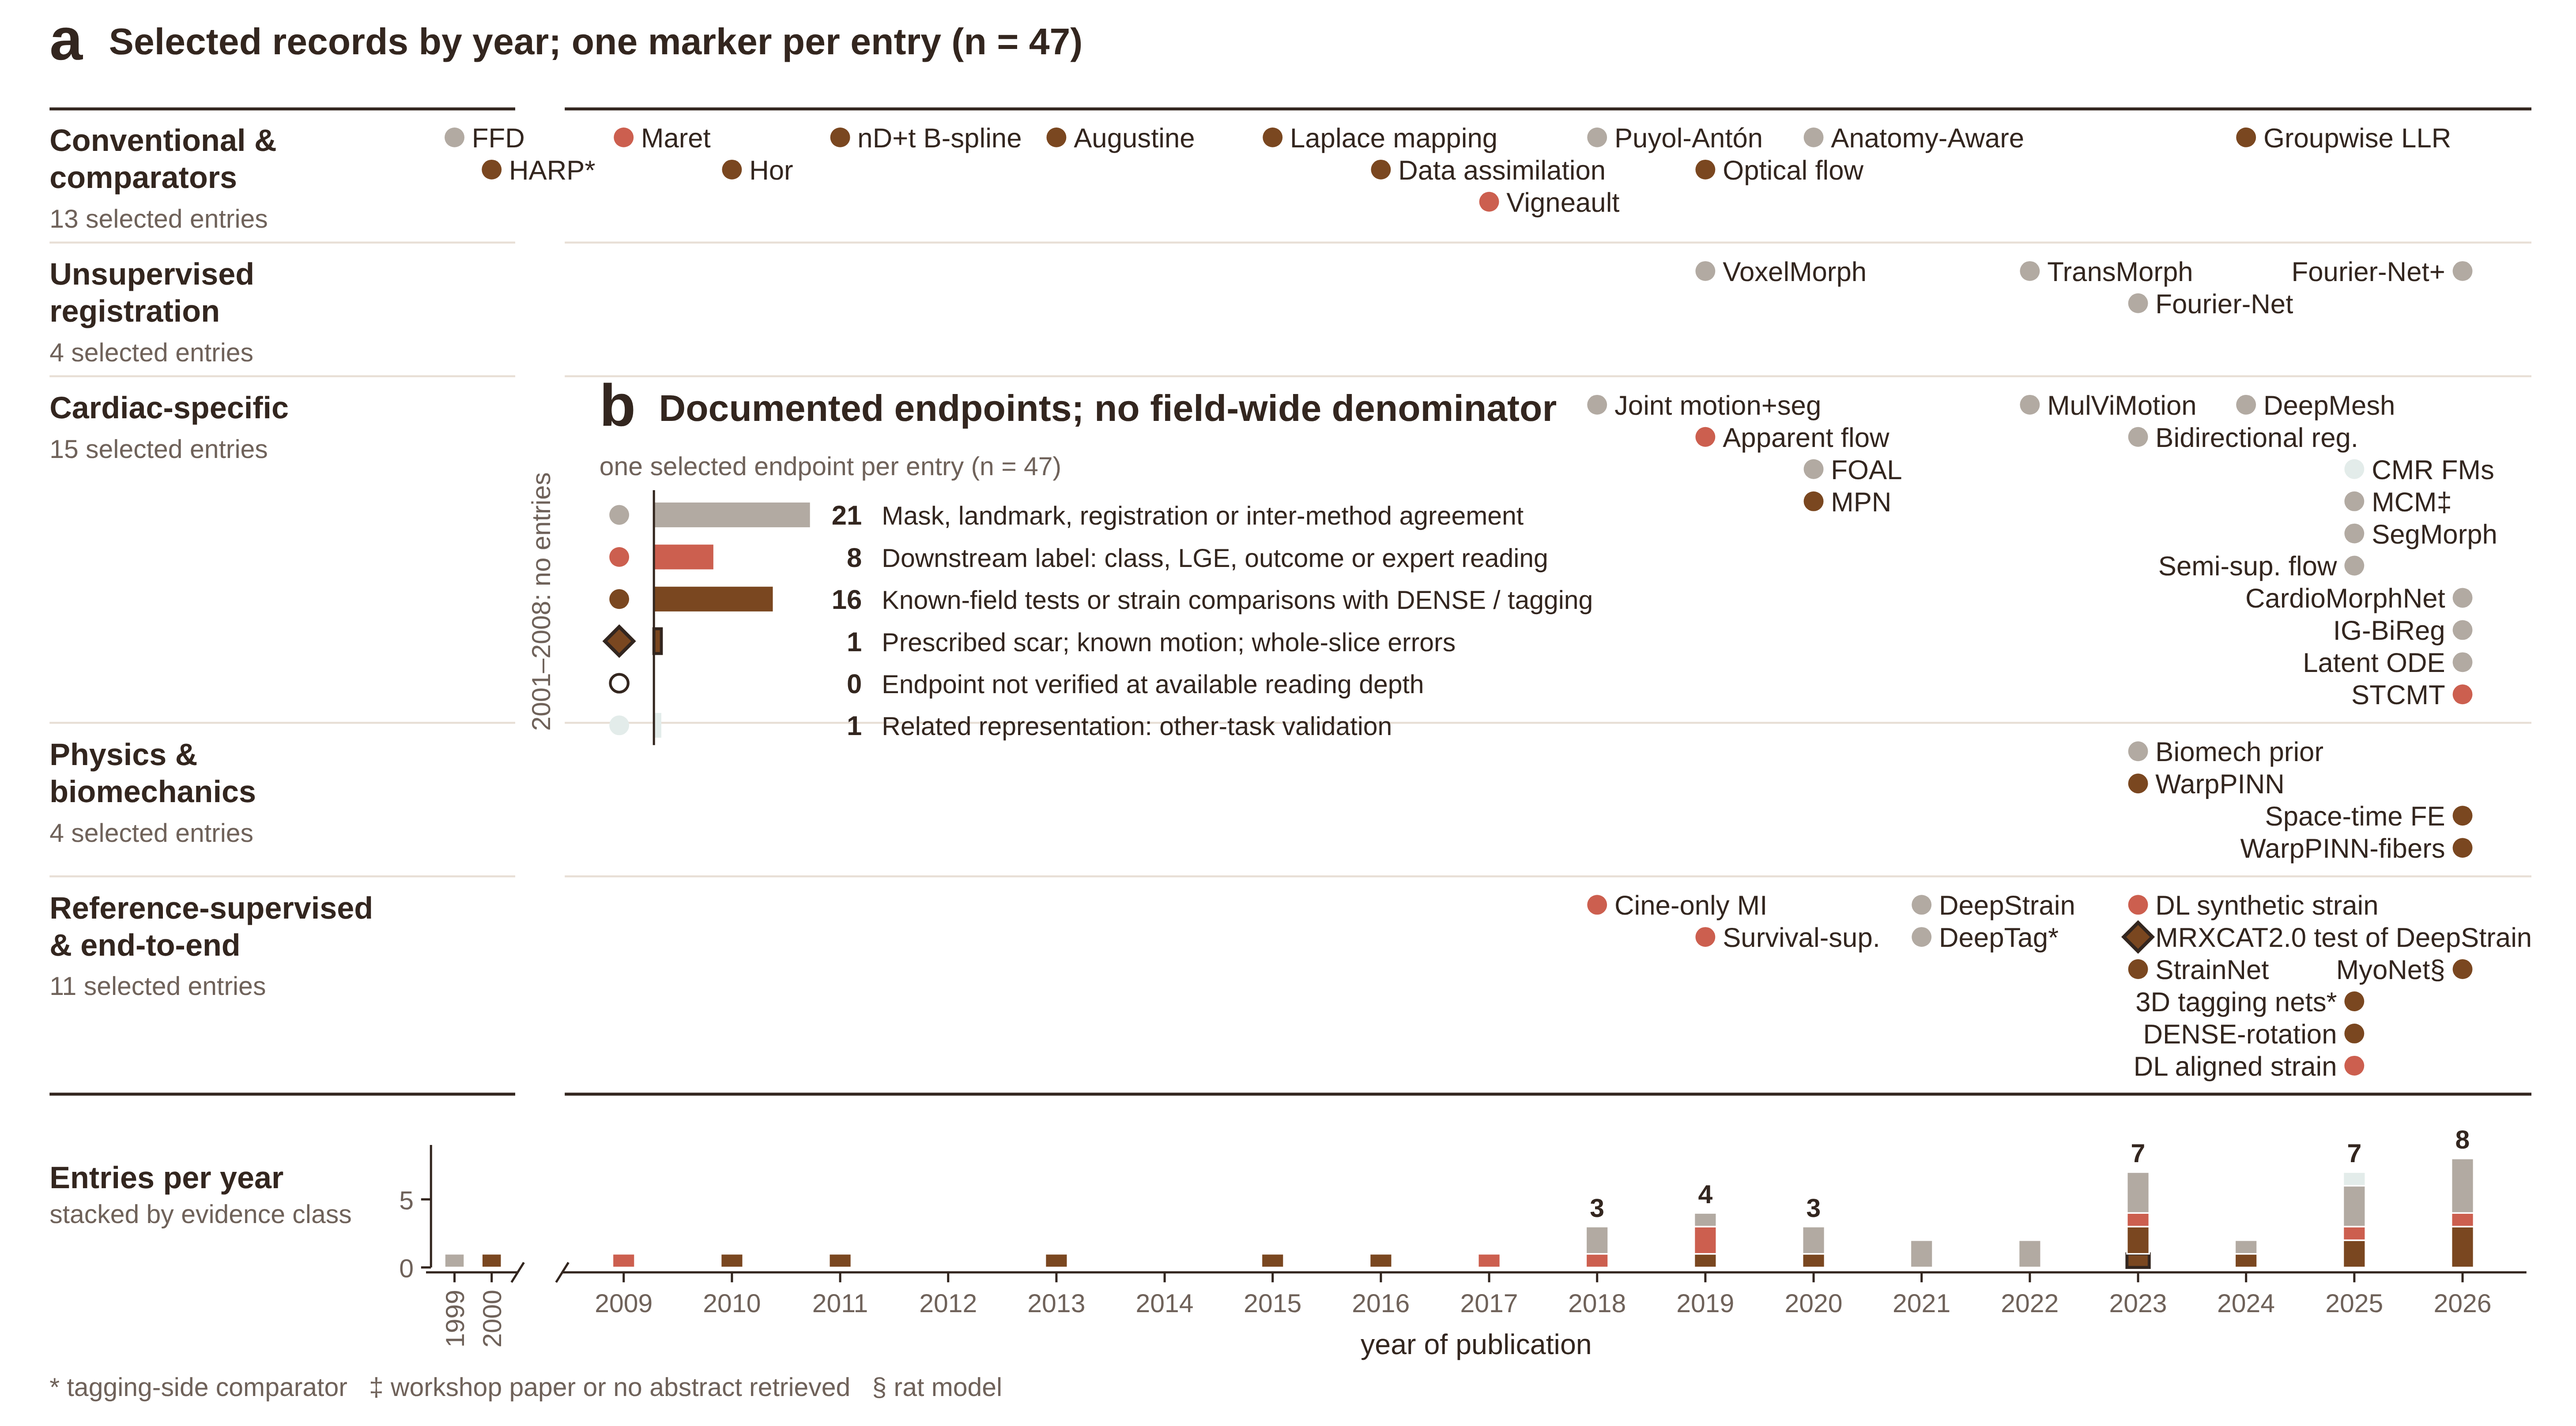
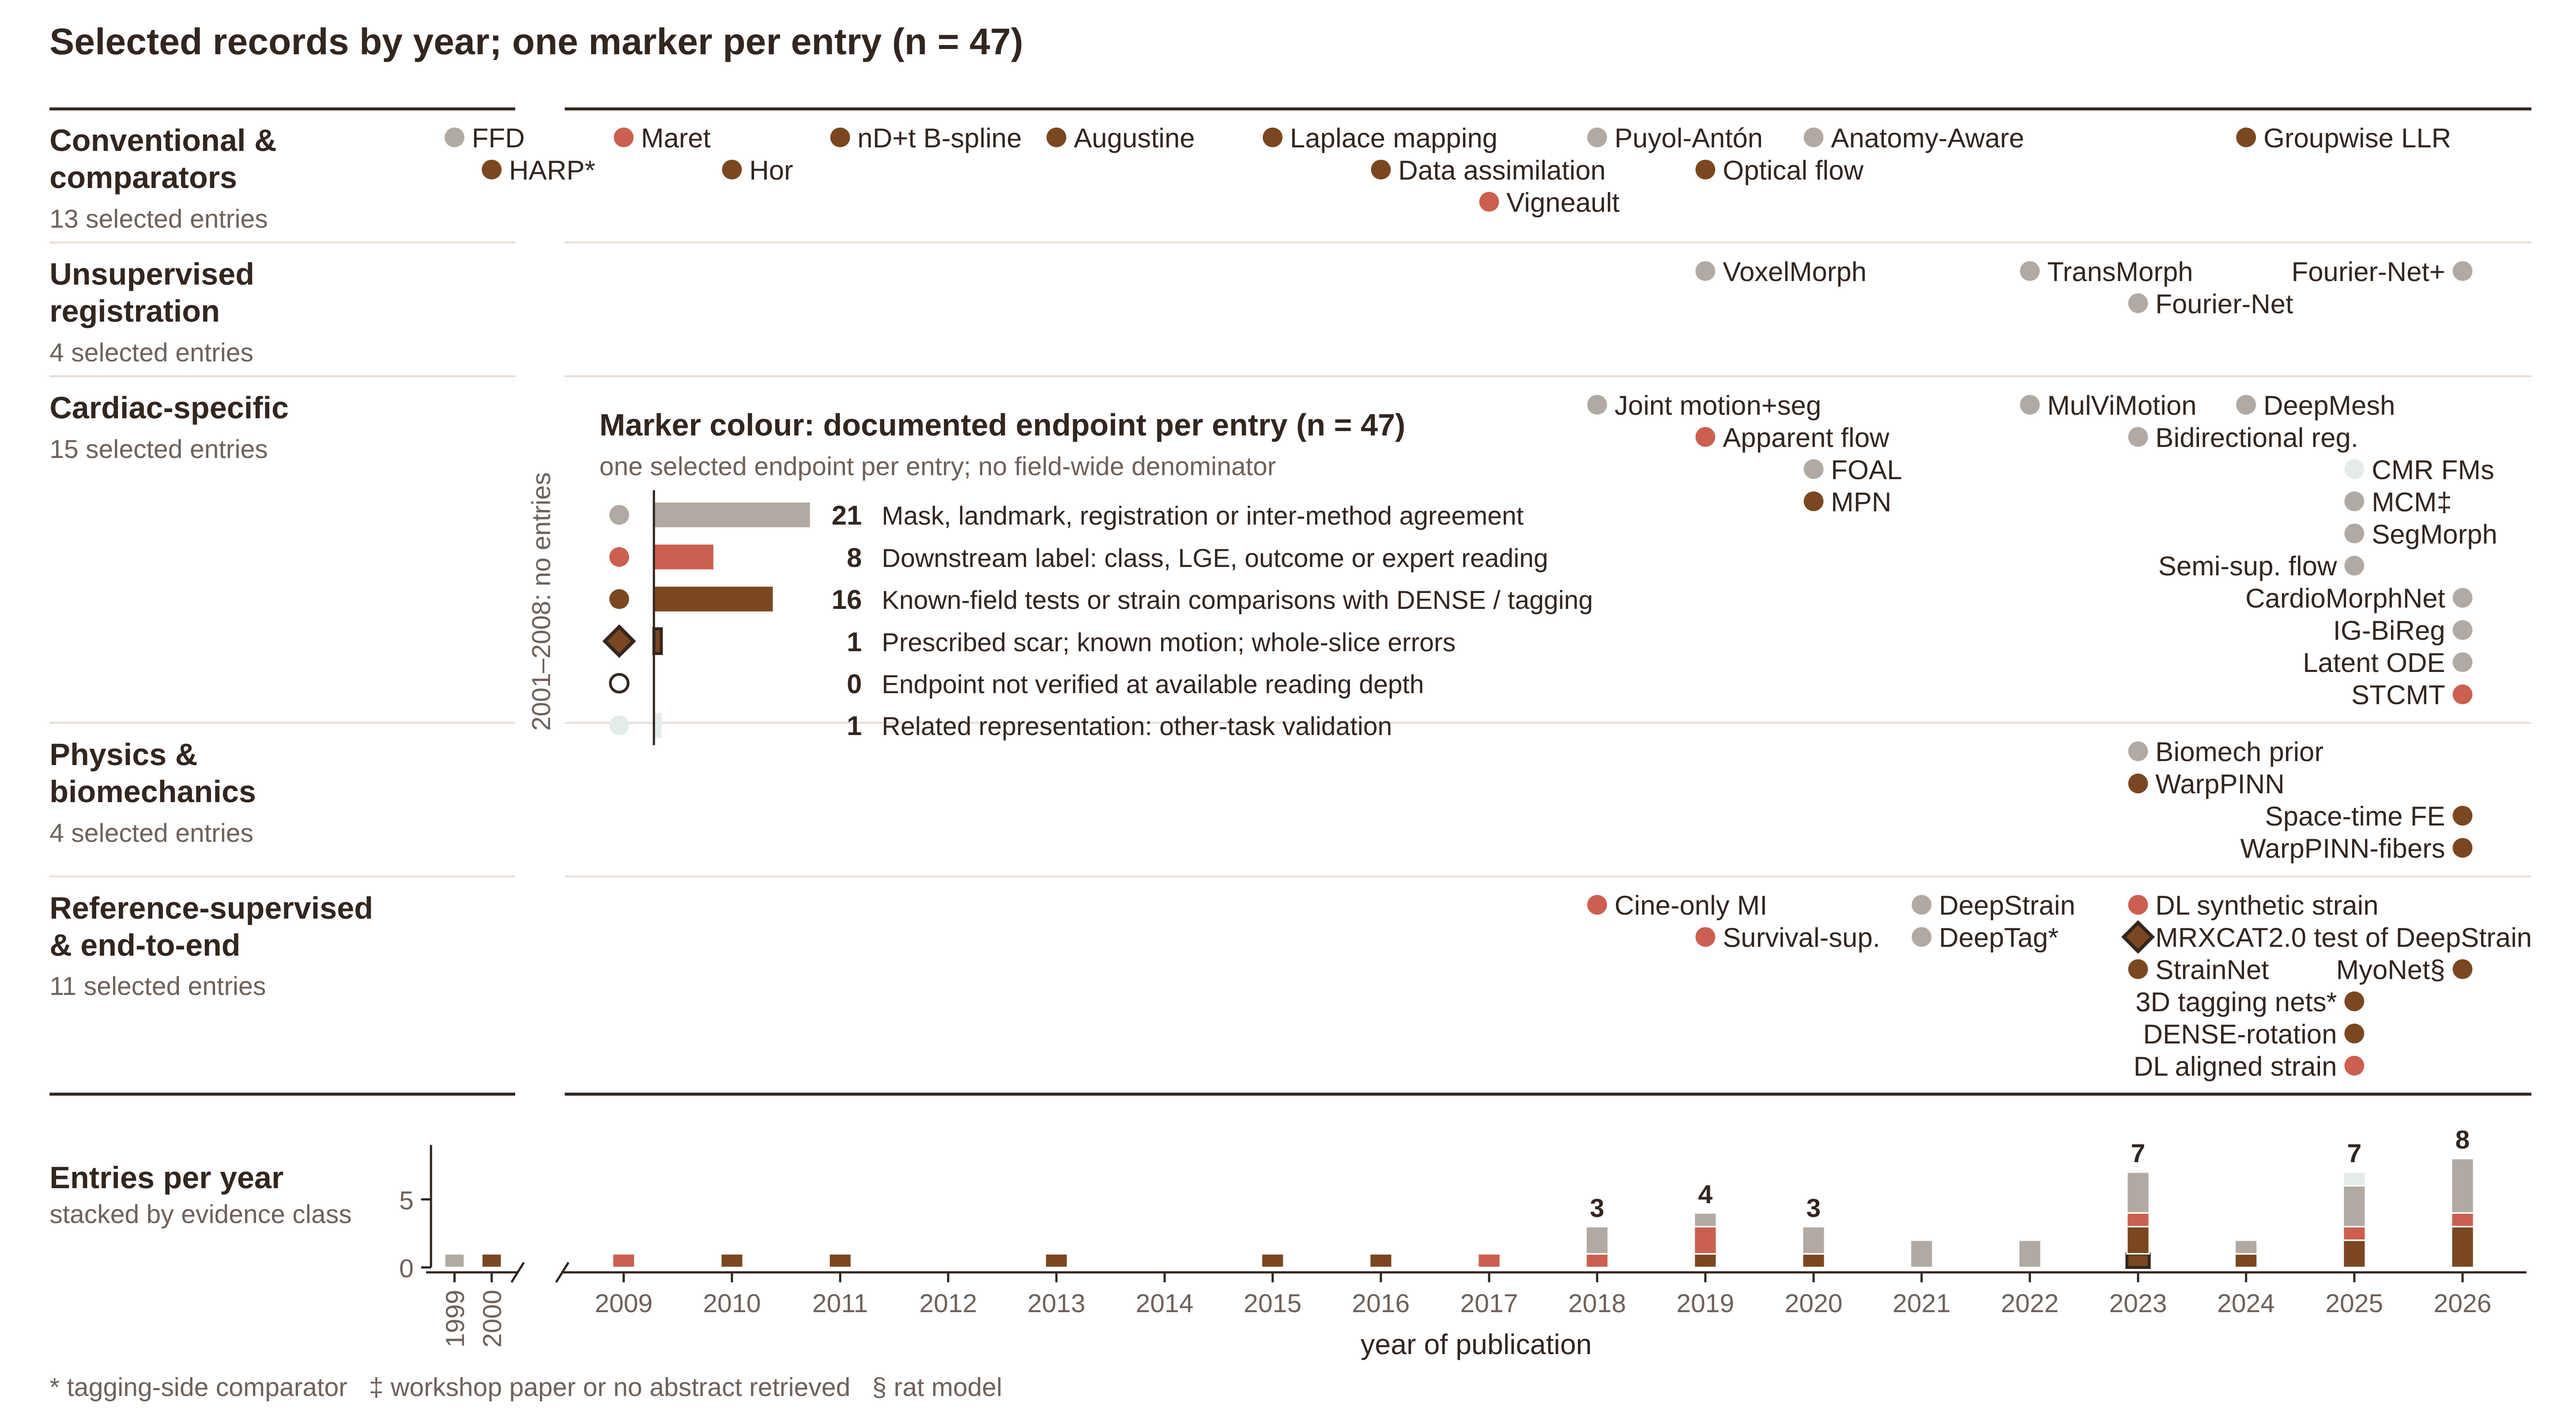
Figure 3: endpoint classes as a legend key, not a panel inside panel a
The figure is now a single panel without letters; the key with its counts
sits in the empty 2009-2017 region of the lower lanes.

Claude-Session: https://claude.ai/code/session_017XQwJ1Acyq4rjNb1y3aRdn

Changed region(s): [[0.0312, 0.0, 0.4055, 0.0625], [0.2183, 0.2812, 0.5926, 0.3438]]

diff --git a/figures/cine-cmr-review-v10/src/fig3_timeline.py b/figures/cine-cmr-review-v10/src/fig3_timeline.py
@@ -109,8 +109,8 @@ fig = start(H, f"Figure 3 | Selected method and evaluation entries (n = {n_total
             footer=["Endpoint classes use source-specific reading depth; include related methods and separate evaluations.",
                     "LGE, late gadolinium enhancement; DENSE, displacement encoding with stimulated echoes."])
 
-# ---- a: timeline -----------------------------------------------------------------------------
-fig.panel(20, 24, "a", f"Selected records by year; one marker per entry (n = {n_total})")
+# ---- timeline -----------------------------------------------------------------------------
+fig.text(20, 22, f"Selected records by year; one marker per entry (n = {n_total})", T.PANEL_TITLE, 700)
 gx0 = year_x(EARLY[1])
 gx1 = gx0 + GAP
 
@@ -187,11 +187,11 @@ for yr in [1999, 2000] + list(range(2009, 2027)):
         fig.text(x, AXIS_Y + 16, str(yr), T.SMALL, fill=C.MUTED, anchor="middle")
 fig.text(X0 + (X1 - X0) / 2, AXIS_Y + 33, "year of publication", T.LABEL + 0.5, anchor="middle")
 
-# ---- b: evidence classes and totals, as an inset in the empty 2009-2017 region of the lower lanes ----
+# ---- key: evidence classes and totals, as a legend in the empty 2009-2017 region of the lower lanes ----
 BX = gx1 + 12
 by = lane_top["cardiac"] + 10
-fig.panel(BX, by + 10, "b", "Documented endpoints; no field-wide denominator")
-fig.text(BX, by + 30, f"one selected endpoint per entry (n = {n_total})", T.SMALL, fill=C.MUTED)
+fig.text(BX, by + 14, f"Marker colour: documented endpoint per entry (n = {n_total})", T.BODY, 700)
+fig.text(BX, by + 30, "one selected endpoint per entry; no field-wide denominator", T.SMALL, fill=C.MUTED)
 SCALE = 3.0
 for i, (key, text) in enumerate(EVIDENCE):
     yy = by + 50 + i * 17

diff --git a/figures/cine-cmr-review-v10/captions_and_alt_text.md b/figures/cine-cmr-review-v10/captions_and_alt_text.md
@@ -16,7 +16,7 @@ Identical contours do not determine the same material correspondence. (a) Schema
 
 Alt text: Three schematic annuli showing cine, tagging and DENSE information with a row of marks for whether each carries a material label; two annuli with identical outlines but differently distributed material points; a plot of circumferential stretch versus angle contrasting a flat line at 1.0 with a cosine between 0.5 and 1.5, beside a small table of the stretch range and mean.
 
-**Figure 3 — `Figure_3_method_timeline`** (247 × 137 mm, landscape page; the endpoint legend of panel b sits as an inset in the empty 2009–2017 region of the lower lanes)
+**Figure 3 — `Figure_3_method_timeline`** (247 × 137 mm, landscape page; single panel, no panel letters; the endpoint key with its counts sits as a legend in the empty 2009–2017 region of the lower lanes)
 
 Cine-CMR motion estimators by year and by the strongest validation evidence each cited source reports (Supplementary Table S3). (a) Lanes group methods by family, with the number of entries and of material-sensitive entries under each lane name; marker fill encodes evidence type. Most cardiac-specific designs from 2018 to 2026 report mask or landmark agreement; material-sensitive references (known motion, DENSE or tagging) appear in 14 of 48 entries, in healthy or mixed cohorts or in simulation; a prescribed focal deficit appears in one independent synthetic evaluation (MRXCAT2.0 test of DeepStrain). The stacked columns on the shared year axis count entries per year by evidence class. (b) Evidence classes and their totals (22, 8, 14, 1 and 3 entries). Evidence classes were assigned from the Table S3 cells, which are abstract- or metadata-level readings; the 48 plotted entries comprise every Table S3 row except boundary feature tracking (a method family without a single year), with the early clinical feature-tracking row shown as its three studies and the MRXCAT2.0 test of DeepStrain shown separately from the DeepStrain row. Years 2001–2008 contain no entries and are compressed. [tool statement]
 
